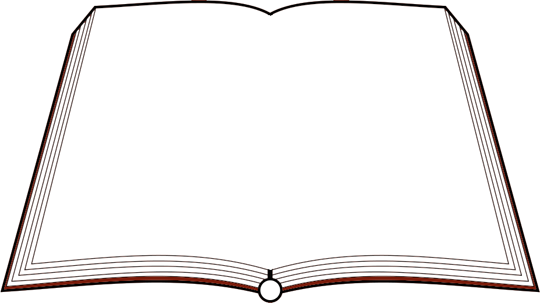
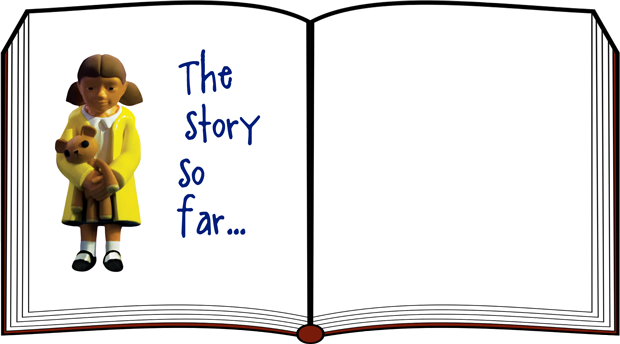
Move Emily image onto left page of book

diff --git a/public/stylesheets/application.css b/public/stylesheets/application.css
@@ -8,14 +8,16 @@ a {color:white}
 .sidebar p {margin:10px}
 ul.links {margin:0}
 ul.links li {list-style-type:none;margin:0 auto;text-align:center}
-#flash_notice {width:100%;height:80px;background-image:url('/images/flash_notice.png');background-repeat:no-repeat;color:#535249;font-size:120%;text-align:center;padding:10px}
-#book {height:303px;background-image:url('/images/book.png');background-repeat:no-repeat;padding-top:25px}
-#story {color:#222;height:200px;width:350px;margin:0 auto 0 auto;overflow:auto}
+#flash_notice, #flash_error {width:100%;height:80px;margin-top:1em;background-repeat:no-repeat;color:black;font-size:120%;text-align:center;padding:10px}
+#flash_notice {background-image:url('/images/flash_notice.png')}
+#flash_error {background-image:url('/images/flash_error.png')}
+#book {height:344px;background-image:url('/images/book.png');background-repeat:no-repeat}
+#story {color:#222;height:260px;width:260px;margin-left:320px;position:relative;top:30px;overflow:auto}
 #story p#opening {font-weight:bold;font-size:120%}
-#story p {margin-bottom:0.5em;text-align:center}
+#story p {margin:0 0.5em 0.5em 0.5em;text-align:center}
 #contribution label {font-size:120%;font-weight:bold;color:white}
 #contribution .textarea_wrapper {height:80px;background-image:url('/images/textarea.png');background-repeat:no-repeat}
-#contribution textarea {width:515px;height:55px;margin:10px;border:none}
+#contribution textarea {width:595px;height:55px;margin:10px;border:none;font-size:120%}
 #contribution input {margin-top:1em}
 #footer {border-top:1px solid #ab9b84;margin-top:1em;padding-bottom:0.5em}
 #footer p {color:white;text-align:center;font-size:80%}
